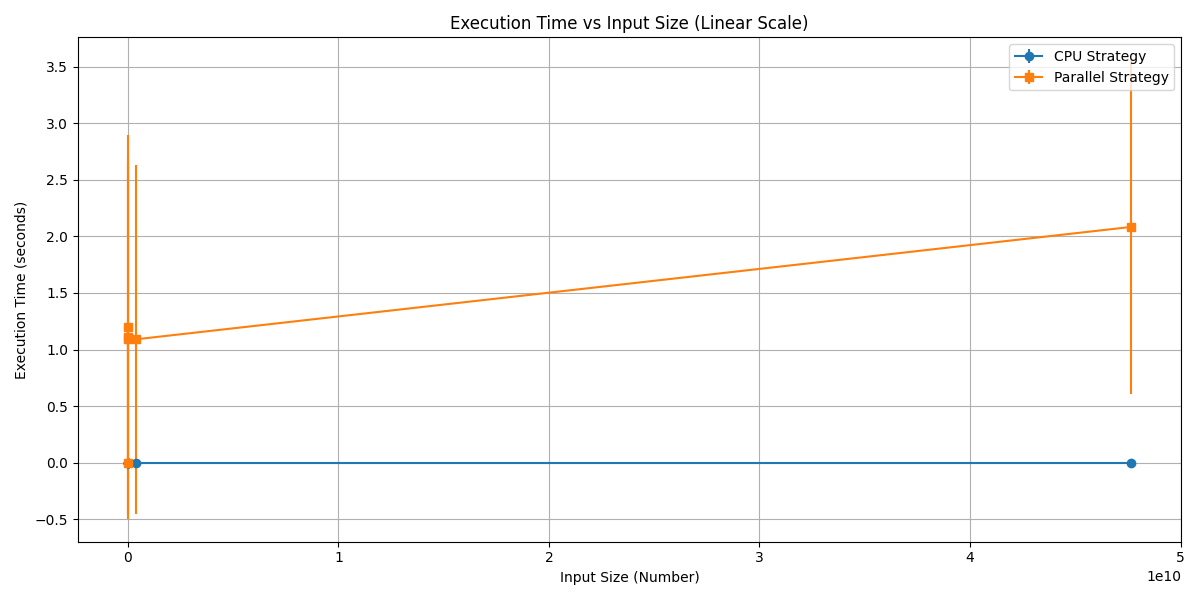
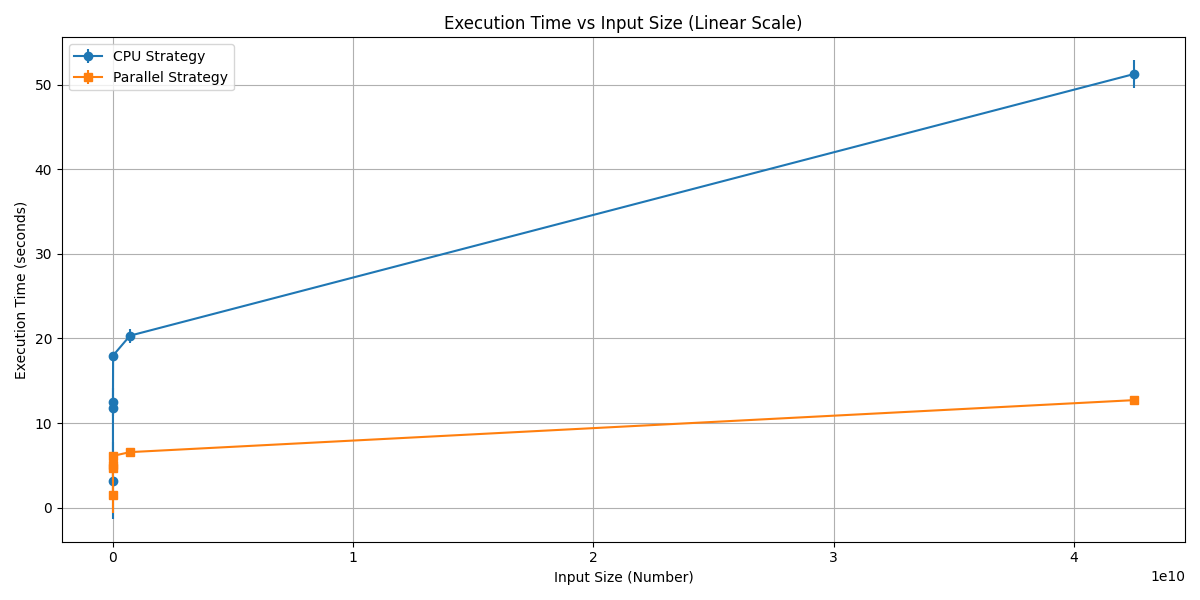
Benchmark fix and added new chart

diff --git a/benchmark.py b/benchmark.py
@@ -5,6 +5,8 @@ import json
 from pathlib import Path
 import matplotlib.pyplot as plt
 import numpy as np
+import sympy
+
 from miller_rabin import MillerRabinTest
 from strategies.cpu_parallel_strategy import CPUParallelPrimalityTestStrategy
 from strategies.cpu_strategy import CPUPrimalityTestStrategy
@@ -30,7 +32,7 @@ class Benchmark:
 
         for min_val, max_val in num_ranges:
             range_id = f"{min_val}-{max_val}"
-            numbers = [random.randint(min_val, max_val) for _ in range(numbers_per_range)]
+            numbers = [sympy.randprime(min_val, max_val) for _ in range(numbers_per_range)]
             test_data[range_id] = numbers
 
         with open(self.output_dir / "test_data.json", "w") as f:
@@ -54,7 +56,7 @@ class Benchmark:
             min_num = 10 ** (digits - 1)
             max_num = 10 ** digits - 1
 
-            test_numbers = sorted([random.randint(min_num, max_num)
+            test_numbers = sorted([sympy.randprime(min_num, max_num)
                                    for _ in range(samples_per_step)])
 
             results["input_sizes"][digits] = test_numbers
@@ -74,6 +76,7 @@ class Benchmark:
             start_time = time.time()
             self.cpu_test.is_prime(num, iterations)
             cpu_times.append(time.time() - start_time)
+            print("cpu", time.time() - start_time)
         results["cpu"][index] = cpu_times
 
         parallel_times = []
@@ -81,6 +84,7 @@ class Benchmark:
             start_time = time.time()
             self.parallel_test.is_prime(num, iterations)
             parallel_times.append(time.time() - start_time)
+            print("parallel", time.time() - start_time)
         results["parallel"][index] = parallel_times
 
         return cpu_times, parallel_times
@@ -153,6 +157,73 @@ class Benchmark:
         plt.savefig(self.output_dir / "line_chart.png")
         plt.close()
 
+    def generate_iterations_test(self,
+                                  test_range: Tuple[int, int],
+                                  start_iterations: int = 1000,
+                                  end_iterations: int = 10000000,
+                                  samples_per_step: int = 3) -> Dict[str, List[float]]:
+        min_val, max_val = test_range
+        numbers = [sympy.randprime(min_val, max_val) for _ in range(samples_per_step)]
+
+        results = {
+            "iterations": [],
+            "cpu_times": [],
+            "parallel_times": []
+        }
+
+        print("\nStarting iteration test...")
+
+        iterations = start_iterations
+        while iterations <= end_iterations:
+            print(f"Testing {iterations} iterations...")
+
+            cpu_times, parallel_times = self.measure_time_for_iterations(numbers, iterations)
+
+            results["iterations"].append(iterations)
+            results["cpu_times"].append(np.mean(cpu_times))
+            results["parallel_times"].append(np.mean(parallel_times))
+
+            iterations *= 10  # Zwiększamy liczbę iteracji o jedno zero
+
+        with open(self.output_dir / "iterations_results.json", "w") as f:
+            json.dump(results, f)
+
+        return results
+
+    def measure_time_for_iterations(self, test_numbers, iterations):
+        cpu_times = []
+        for num in test_numbers:
+            start_time = time.time()
+            self.cpu_test.is_prime(num, iterations)
+            cpu_times.append(time.time() - start_time)
+
+        parallel_times = []
+        for num in test_numbers:
+            start_time = time.time()
+            self.parallel_test.is_prime(num, iterations)
+            parallel_times.append(time.time() - start_time)
+
+        return cpu_times, parallel_times
+
+    def generate_iterations_chart(self, results: Dict[str, List[float]]):
+        iterations = results["iterations"]
+        cpu_times = results["cpu_times"]
+        parallel_times = results["parallel_times"]
+
+        plt.figure(figsize=(12, 6))
+
+        plt.plot(iterations, cpu_times, label="CPU Strategy", marker='o')
+        plt.plot(iterations, parallel_times, label="Parallel Strategy", marker='s')
+
+        plt.xlabel('Number of Iterations')
+        plt.ylabel('Average Execution Time (seconds)')
+        plt.title('Execution Time vs Number of Iterations')
+        plt.legend()
+        plt.grid(True)
+        plt.tight_layout()
+        plt.savefig(self.output_dir / "iterations_chart.png")
+        plt.close()
+
 
 def main():
     benchmark = Benchmark()
@@ -165,12 +236,15 @@ def main():
         (10000000, 100000000)
     ]
 
-    range_data = benchmark.generate_range_data(num_ranges=ranges, numbers_per_range=10)
-    range_results = benchmark.run_benchmarks(test_data=range_data, iterations=10)
+    range_data = benchmark.generate_range_data(num_ranges=ranges, numbers_per_range=2)
+    range_results = benchmark.run_benchmarks(test_data=range_data, iterations=10000000)
     benchmark.generate_bar_chart(range_results)
 
-    results = benchmark.generate_increasing_data(max_digits=12, step=2, samples_per_step=3, iterations=10)
+    results = benchmark.generate_increasing_data(max_digits=12, step=2, samples_per_step=3, iterations=10000000)
     benchmark.generate_line_chart(results)
+
+    iteration_results = benchmark.generate_iterations_test(test_range=ranges[2], start_iterations=1000, end_iterations=10000000, samples_per_step=3)
+    benchmark.generate_iterations_chart(iteration_results)
 
 
 if __name__ == "__main__":

diff --git a/strategies/gpu_strategy.py b/strategies/gpu_strategy.py
@@ -10,8 +10,8 @@ from strategies.base_strategy import PrimalityTestStrategy
 class GPUPrimalityTestStrategy(PrimalityTestStrategy):
     def __init__(self):
         self.mod = SourceModule("""
-        __device__ long long modular_pow(long long base, long long exp, long long mod) {
-            long long result = 1;
+        __device__ unsigned long long modular_pow(unsigned long long base, unsigned long long exp, unsigned long long mod) {
+            unsigned long long result = 1;
             base = base % mod;
             while (exp > 0) {
                 if (exp % 2 == 1) {
@@ -23,12 +23,12 @@ class GPUPrimalityTestStrategy(PrimalityTestStrategy):
             return result;
         }
 
-        __global__ void miller_rabin_test(long long *bases, int *results, long long d, long long n, int k) {
+        __global__ void miller_rabin_test(unsigned long long *bases, int *results, unsigned long long d, unsigned long long n, int k) {
             int idx = threadIdx.x + blockIdx.x * blockDim.x;
             if (idx >= k) return;
 
-            long long a = bases[idx];
-            long long x = modular_pow(a, d, n);
+            unsigned long long a = bases[idx];
+            unsigned long long x = modular_pow(a, d, n);
             if (x == 1 || x == n - 1) {
                 results[idx] = 1;
                 return;
@@ -52,9 +52,11 @@ class GPUPrimalityTestStrategy(PrimalityTestStrategy):
         """)
 
     def is_prime(self, n: int, k: int) -> bool:
+        if n < 2:
+            return False
         if n == 2 or n == 3:
             return True
-        if n <= 1 or n % 2 == 0:
+        if n % 2 == 0:
             return False
 
         # Obliczanie wartości d
@@ -63,21 +65,36 @@ class GPUPrimalityTestStrategy(PrimalityTestStrategy):
             d //= 2
 
         # Generowanie losowych podstaw
-        bases = np.array([random.randint(2, n - 2) for _ in range(k)], dtype=np.int64)
-        results = np.zeros(k, dtype=np.int32)
+        start_bases_gen = time.time()
+        bases = np.array([random.randint(2, n - 2) for _ in range(k)], dtype=np.uint64)
+        end_bases_gen = time.time()
 
         # Przenoszenie danych na GPU
+        start_data_transfer = time.time()
         gpu_bases = gpuarray.to_gpu(bases)
+        results = np.zeros(k, dtype=np.int32)
         gpu_results = gpuarray.to_gpu(results)
+        end_data_transfer = time.time()
 
         # Uruchamianie kernela
+        start_kernel = time.time()
         block_size = 512
         grid_size = (k + block_size - 1) // block_size
         miller_rabin_test = self.mod.get_function("miller_rabin_test")
-        miller_rabin_test(gpu_bases, gpu_results, np.int64(d), np.int64(n), np.int32(k), block=(block_size, 1, 1), grid=(grid_size, 1))
+        miller_rabin_test(gpu_bases, gpu_results, np.uint64(d), np.uint64(n), np.int32(k), block=(block_size, 1, 1), grid=(grid_size, 1))
+        drv.Context.synchronize()  # Czekanie na zakończenie kernela
+        end_kernel = time.time()
 
         # Pobranie wyników z GPU
+        start_results_retrieval = time.time()
         results = gpu_results.get()
+        end_results_retrieval = time.time()
+
+        # Wyniki czasowe
+        print(f"Czas generowania podstaw: {end_bases_gen - start_bases_gen:.6f} s")
+        print(f"Czas przenoszenia danych na GPU: {end_data_transfer - start_data_transfer:.6f} s")
+        print(f"Czas uruchomienia kernela: {end_kernel - start_kernel:.6f} s")
+        print(f"Czas pobierania wyników z GPU: {end_results_retrieval - start_results_retrieval:.6f} s")
 
         # Sprawdzenie, czy wszystkie testy zakończyły się sukcesem
         return all(results)

diff --git a/main.py b/main.py
@@ -53,7 +53,7 @@ def main():
                 print(f"File {file_path} not found.")
         elif input_mode == '3':
             n = 4754597
-            k = 100000000
+            k = 10000000
             is_prime = stopwatch(miller_rabin_test.is_prime)(n, k)
             print(f"Number {n} is prime: {is_prime}")
         else:
